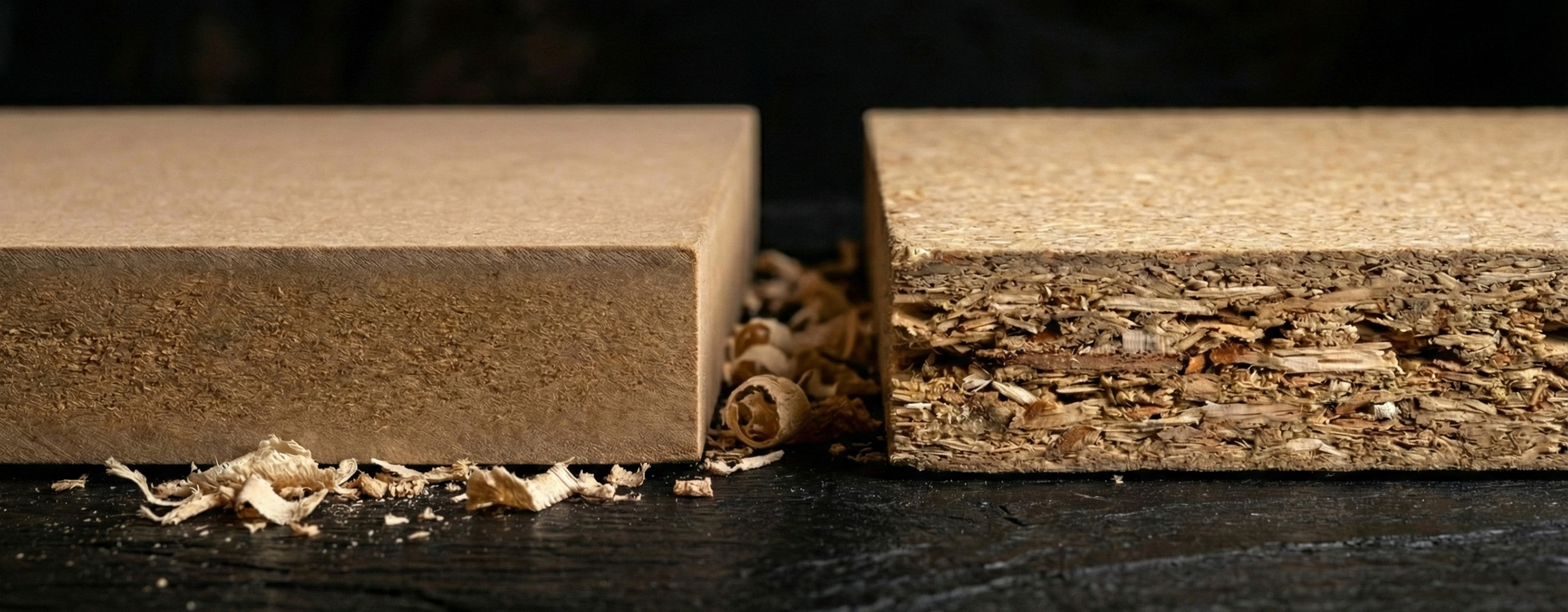
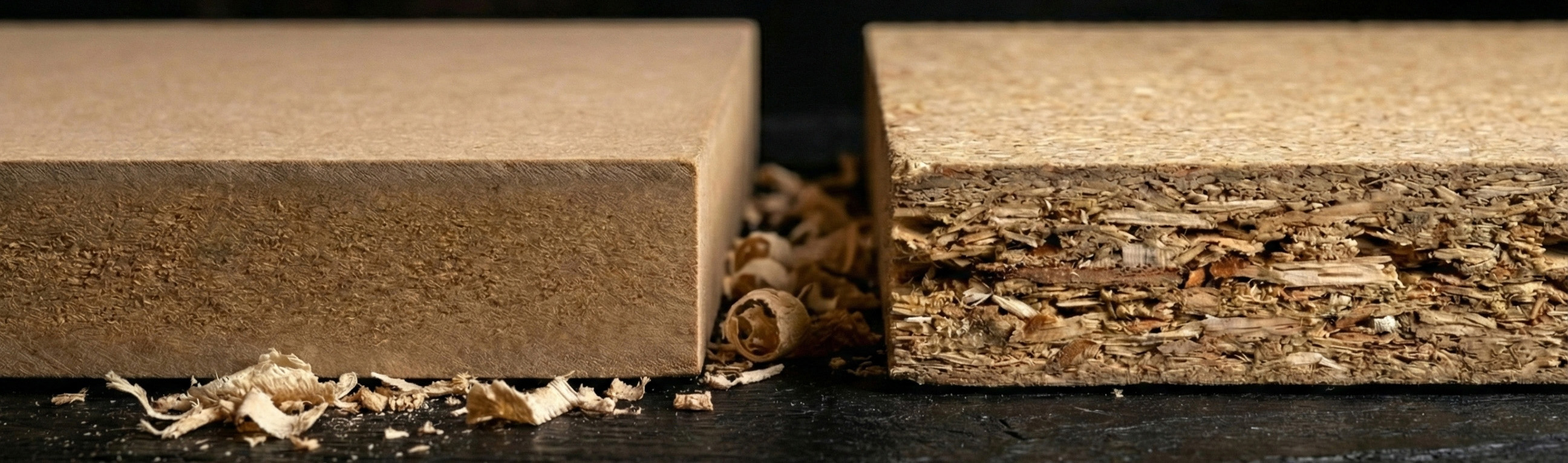
PB MDF 이미지 교체 및 비율 조정 (얇고 길게)

diff --git a/components/Problems.tsx b/components/Problems.tsx
@@ -40,7 +40,7 @@ export default function Problems() {
         </FadeUp>
 
         <FadeUp className="mb-16">
-          <div className="relative w-full aspect-[16/9] max-w-4xl mx-auto overflow-hidden rounded">
+          <div className="relative w-full aspect-[3.4/1] mx-auto overflow-hidden rounded">
             <Image
               src="/images/pb-mdf.jpg"
               alt="PB·MDF 문제점"
